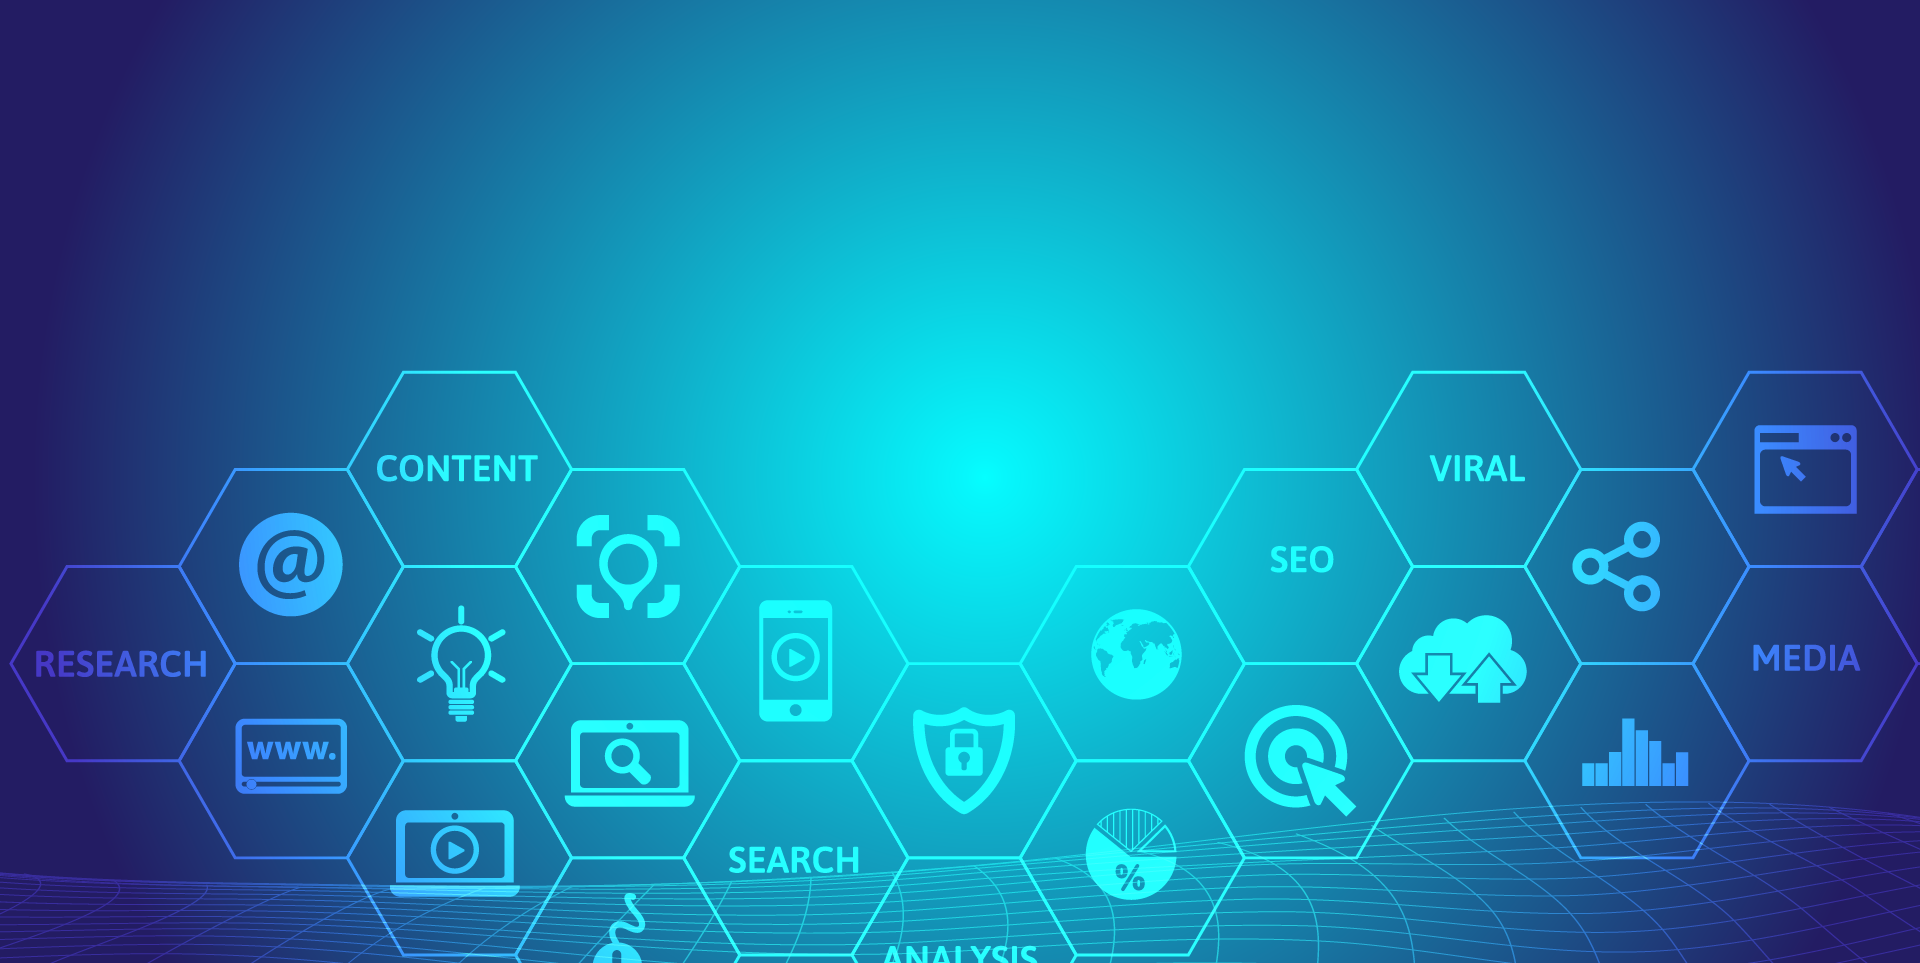
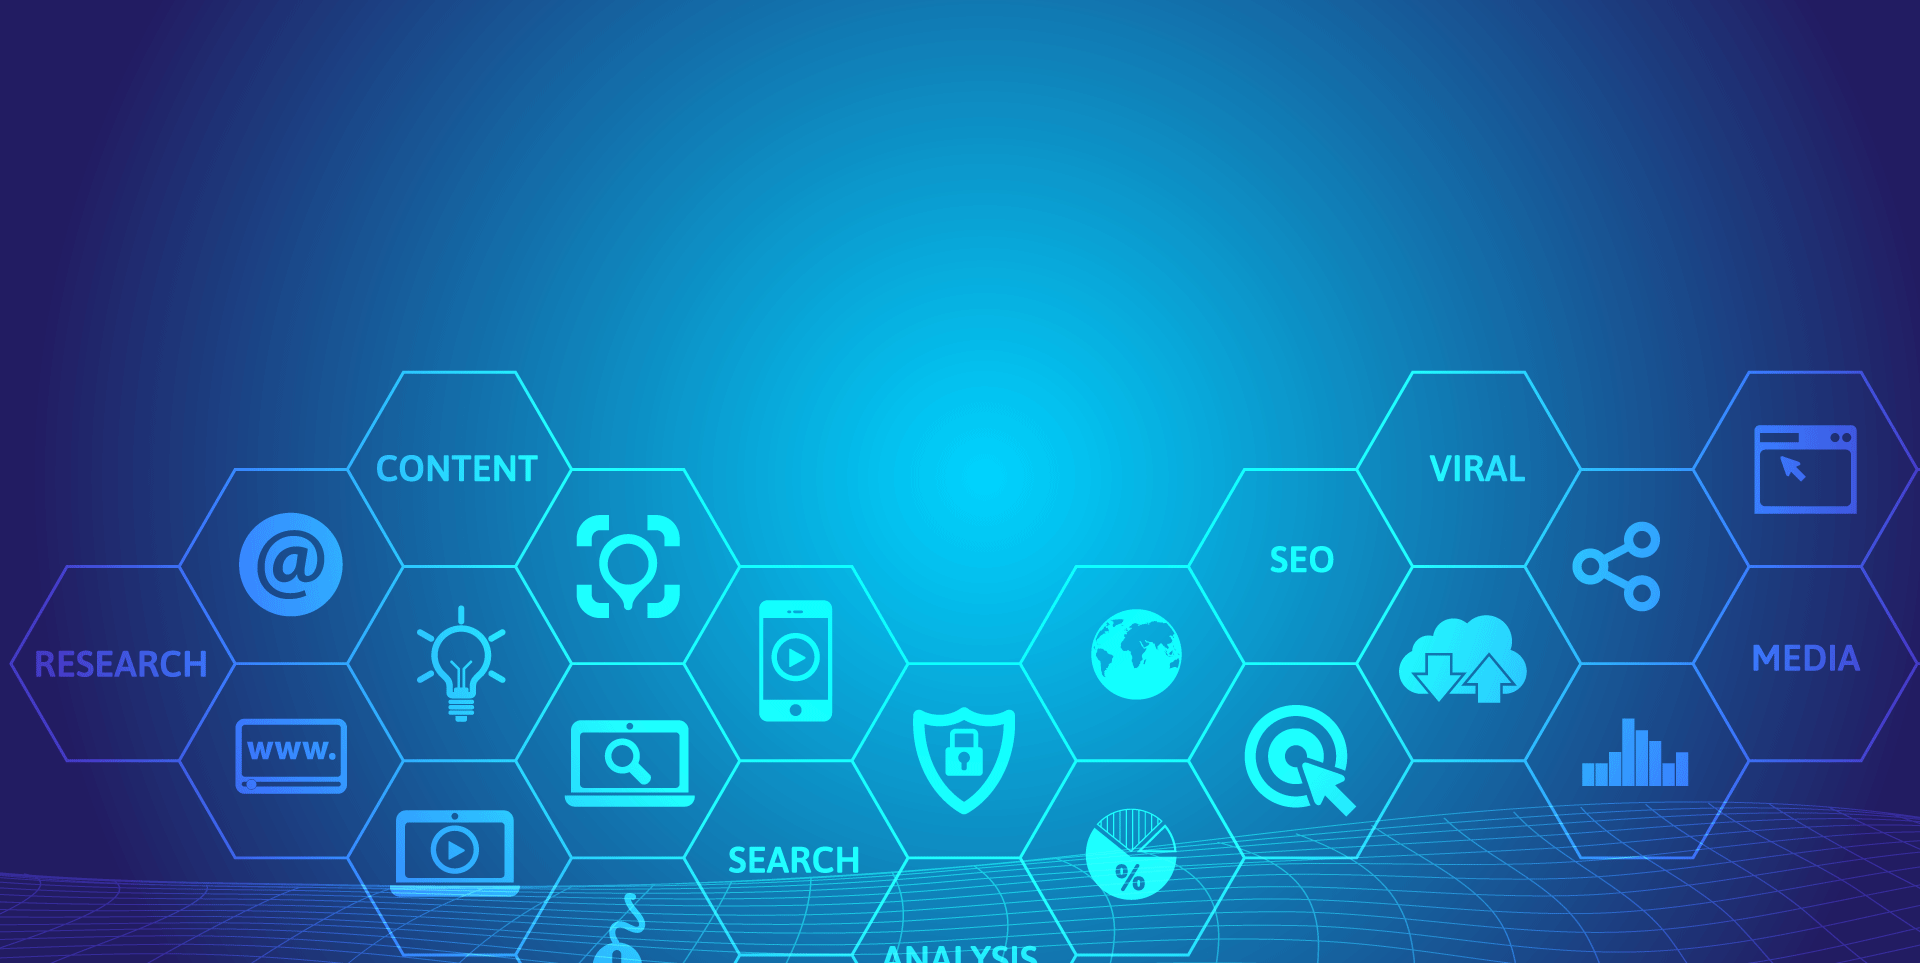
0629 修改背景

diff --git a/css/sample.scss b/css/sample.scss
@@ -105,7 +105,7 @@ body {
             position: relative;
             width: 100%;
             height: calc(100vh - 90px);
-            background-image: url("../img/sample3-BG-2.png");
+            background-image: url("../img/sample3-BG.png");
             background-repeat: no-repeat;
             background-size: cover;
             background-position: center;
@@ -302,7 +302,7 @@ body {
             position: relative;
             width: 100%;
             height: 100vh;
-            background-image: url("../img/sample4-BG-2.png");
+            background-image: url("../img/sample4-BG.png");
             background-repeat: no-repeat;
             background-size: cover;
             background-position: center;
@@ -557,10 +557,9 @@ body {
                             width: 30px;
                         }
                     }
-
-                    .nav-link.active {
-                        color: #F9EB21;
-                    }
+                }
+                .nav-link.active {
+                    color: #F9EB21;
                 }
             }
 

diff --git a/css/sample.css b/css/sample.css
@@ -105,7 +105,7 @@ body .sample03-container main.sample03-main {
   position: relative;
   width: 100%;
   height: calc(100vh - 90px);
-  background-image: url("../img/sample3-BG-2.png");
+  background-image: url("../img/sample3-BG.png");
   background-repeat: no-repeat;
   background-size: cover;
   background-position: center;
@@ -326,7 +326,7 @@ body .sample04-container main.sample04-main {
   position: relative;
   width: 100%;
   height: 100vh;
-  background-image: url("../img/sample4-BG-2.png");
+  background-image: url("../img/sample4-BG.png");
   background-repeat: no-repeat;
   background-size: cover;
   background-position: center;
@@ -648,7 +648,7 @@ body nav.sample-nav .container-fluid ul .nav-link img {
   }
 }
 
-body nav.sample-nav .container-fluid ul .nav-link .nav-link.active {
+body nav.sample-nav .container-fluid ul .nav-link.active {
   color: #F9EB21;
 }
 
